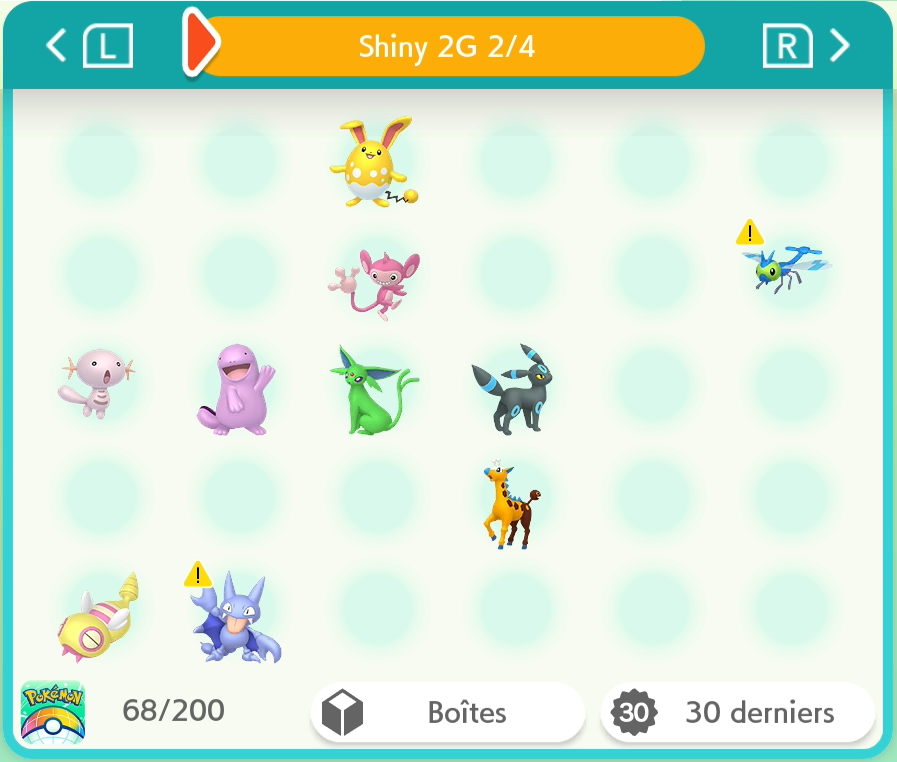
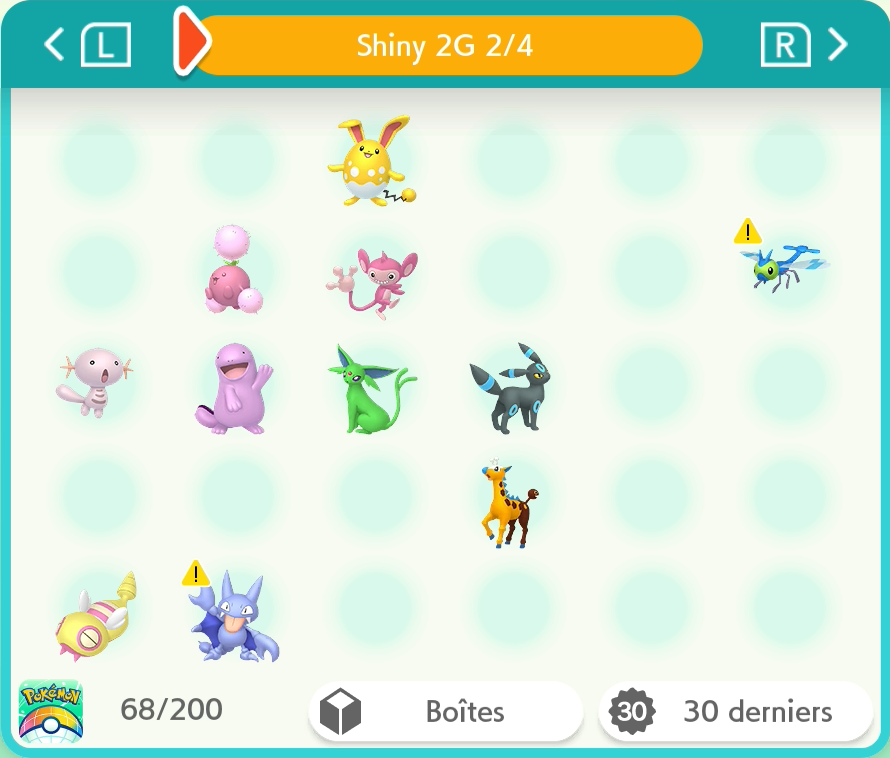
2G : Cotovol | Formes d'Alola : Sabelette & Sablaireau

diff --git a/README.md b/README.md
@@ -2,13 +2,13 @@
 
 Pokémon-Elément-Sh -> <a href="https://www.pokemon-element-sh.fr/profil/karyno21" target="_blank">Karyno21</a>
 
-↓ Dernière Update le 23/05/2026 à 11h18 ↓
-### Dex National [241/999] +5
+↓ Dernière Update le 27/05/2026 à 10h13 ↓
+### Dex National [242/999] +6
 
 | Gen | Prog | Notes |
 |:--:|:--:|---|
 |1G|42/151|+2 Mackogneur & Galopa|
-|2G|31/100|+1 Pharamp|
+|2G|32/100|+2 Pharamp & Cotovol|
 |3G|19/135||
 |4G|20/107||
 |5G|26/154||
@@ -17,11 +17,11 @@ Pokémon-Elément-Sh -> <a href="https://www.pokemon-element-sh.fr/profil/karyno
 |8G|24/90|+2 Distrib Zacian & Éthernatos|
 |9G|42/108||
 
-### Formes Régionales [31/58] +12
+### Formes Régionales [33/58] +14
 
 | Forme | Prog | Notes |
 |:--:|:--:|---|
-|Alola|10/18|+9 Familles de Rattata / Goupix / Racaillou, Raichu & Noadkoko|
+|Alola|12/18|+11 Familles de Rattata / Goupix / Racaillou / Sabelette, Raichu & Noadkoko|
 |Galar|6/19|+6 Famille de Ramoloss & Distrib des oiseaux légendaire de Galar|
 |Hisui|17/17|Complété|
 |Paldea|1/4||
